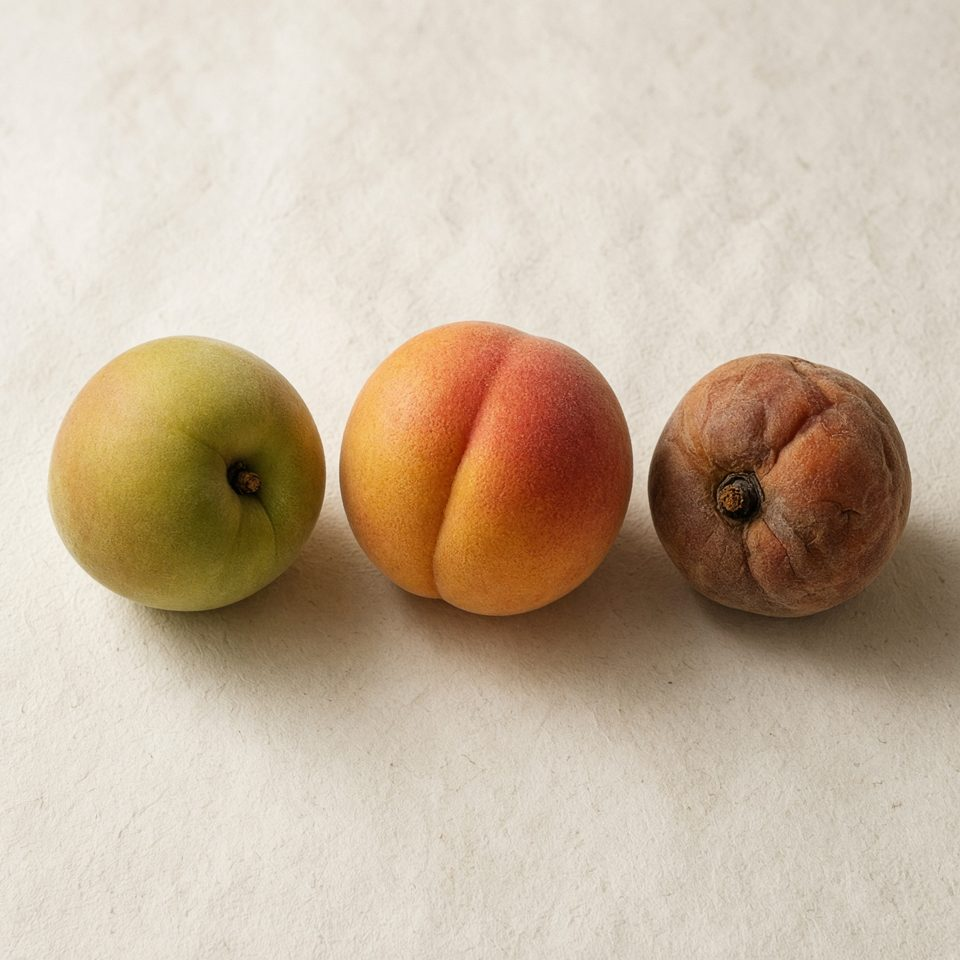
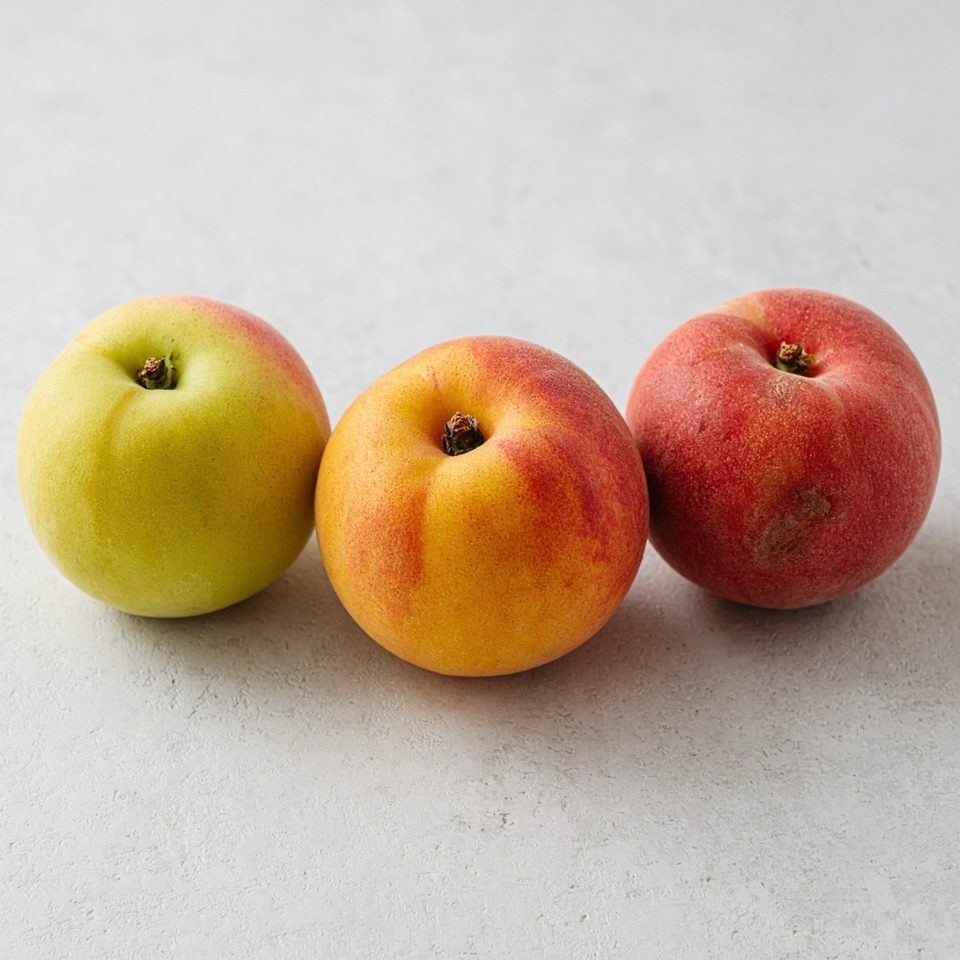
Fotos reales de cada alimento, sin estados extremos.

diff --git a/src/lib/catalog.ts b/src/lib/catalog.ts
@@ -215,6 +215,7 @@ export const GUIDES: Guide[] = [
     longer: ["Sepárala de lechuga y hierbas: suelta mucho etileno."],
     avoid: ["No la dejes al sol ni junto a la cebolla."],
     ethylene: "emite",
+    photo: "/guia/manzana.jpg",
     stages: false,
   },
   {
@@ -234,6 +235,7 @@ export const GUIDES: Guide[] = [
     longer: ["Una bolsa perforada en el cajón alarga la semana."],
     avoid: ["No los encierres húmedos."],
     ethylene: "neutro",
+    photo: "/guia/citricos.jpg",
     stages: false,
   },
   {
@@ -253,6 +255,7 @@ export const GUIDES: Guide[] = [
     longer: ["No las laves hasta servirlas."],
     avoid: ["No las dejes en el frutero de la mesa varios días."],
     ethylene: "sensible",
+    photo: "/guia/uva.jpg",
     stages: false,
   },
   {
@@ -272,6 +275,7 @@ export const GUIDES: Guide[] = [
     longer: ["Cubre el corte con papel o tapa, no dejes la cara abierta."],
     avoid: ["Una sandía partida en la mesa pasa la regla de las 2 horas y se tira."],
     ethylene: "neutro",
+    photo: "/guia/sandia.jpg",
     stages: false,
   },
   {
@@ -291,6 +295,7 @@ export const GUIDES: Guide[] = [
     longer: ["Guárdala de lado o parada, sin bolsa cerrada."],
     avoid: ["No esperes a que se ponga más amarilla para que endulce: eso no pasa en casa."],
     ethylene: "neutro",
+    photo: "/guia/pina.jpg",
     stages: false,
   },
   {
@@ -310,6 +315,7 @@ export const GUIDES: Guide[] = [
     longer: ["El corte siempre tapado, nunca en la mesa de la comida larga."],
     avoid: ["La superficie de un melón se lava antes de cortar: la cáscara trae tierra."],
     ethylene: "emite",
+    photo: "/guia/melon.jpg",
     stages: false,
   },
   {
@@ -329,6 +335,7 @@ export const GUIDES: Guide[] = [
     longer: ["Al primer aroma dulce fuerte, al refrigerador."],
     avoid: ["No la guardes junto a plátanos si aún está verde y no quieres apurarla."],
     ethylene: "emite",
+    photo: "/guia/papaya.jpg",
     stages: false,
   },
   {
@@ -348,6 +355,7 @@ export const GUIDES: Guide[] = [
     longer: ["Revisa el cuello, no el centro: por dentro se pasa antes de que se vea."],
     avoid: ["No la refrigeres mientras el cuello esté de piedra."],
     ethylene: "emite",
+    photo: "/guia/pera.jpg",
     stages: false,
   },
   {
@@ -367,6 +375,7 @@ export const GUIDES: Guide[] = [
     longer: ["Una sola capa. El etileno de una pasada acelera al resto."],
     avoid: ["No la encierres con manzanas si aún está verde, salvo que quieras apurarla."],
     ethylene: "emite",
+    photo: "/guia/guayaba.jpg",
     stages: false,
   },
   {
@@ -386,6 +395,7 @@ export const GUIDES: Guide[] = [
     longer: ["Una bolsa de papel con manzana lo apura. El refrigerador lo frena."],
     avoid: ["No lo cortes antes de que ceda: no madura en el plato."],
     ethylene: "sensible",
+    photo: "/guia/kiwi.jpg",
     stages: false,
   },
   {
@@ -405,6 +415,7 @@ export const GUIDES: Guide[] = [
     longer: ["Recipiente bajo, no una bolsa honda donde se aplasten."],
     avoid: ["No las laves al guardarlas."],
     ethylene: "neutro",
+    photo: "/guia/arandano.jpg",
     stages: false,
   },
   {
@@ -424,6 +435,7 @@ export const GUIDES: Guide[] = [
     longer: ["Limón en manzana, pera y aguacate frena el oscurecimiento, no la bacteria."],
     avoid: ["No la dejes en la mesa de una reunión larga."],
     ethylene: "neutro",
+    photo: "/guia/fruta-partida.jpg",
     stages: false,
   },
   {
@@ -443,6 +455,7 @@ export const GUIDES: Guide[] = [
     longer: ["No la laves hasta usarla, o sécala muy bien."],
     avoid: ["El etileno de manzana, plátano y jitomate la oxida antes."],
     ethylene: "sensible",
+    photo: "/guia/lechuga.jpg",
     stages: false,
   },
   {
@@ -462,6 +475,7 @@ export const GUIDES: Guide[] = [
     longer: ["Papel absorbente dentro de un recipiente, no bolsa sellada mojada."],
     avoid: ["No la dejes junto a frutas que maduran."],
     ethylene: "sensible",
+    photo: "/guia/espinaca.jpg",
     stages: false,
   },
   {
@@ -484,6 +498,7 @@ export const GUIDES: Guide[] = [
     ],
     avoid: ["No metas la albahaca al refrigerador si puedes tenerla en la mesa."],
     ethylene: "sensible",
+    photo: "/guia/cilantro.jpg",
     stages: false,
   },
   {
@@ -503,6 +518,7 @@ export const GUIDES: Guide[] = [
     longer: ["Una media o canasta, no una bolsa de plástico."],
     avoid: ["Junto a las papas: la cebolla las hace brotar y ellas humedecen la cebolla."],
     ethylene: "neutro",
+    photo: "/guia/cebolla.jpg",
     stages: false,
   },
   {
@@ -522,6 +538,7 @@ export const GUIDES: Guide[] = [
     longer: ["No quites la piel de papel hasta usarlo."],
     avoid: ["No lo guardes en el refrigerador 'por si acaso'."],
     ethylene: "neutro",
+    photo: "/guia/ajo.jpg",
     stages: false,
   },
   {
@@ -541,6 +558,7 @@ export const GUIDES: Guide[] = [
     longer: ["Una caja de cartón, no bolsa hermética ni bajo el fregadero húmedo."],
     avoid: ["Nunca refrigeres papa cruda para 'que dure'."],
     ethylene: "neutro",
+    photo: "/guia/papa.jpg",
     stages: false,
   },
   {
@@ -560,6 +578,7 @@ export const GUIDES: Guide[] = [
     longer: ["No lo laves hasta cocinarlo."],
     avoid: ["No lo metas al cajón de las verduras crudo."],
     ethylene: "neutro",
+    photo: "/guia/camote.jpg",
     stages: false,
   },
   {
@@ -579,6 +598,7 @@ export const GUIDES: Guide[] = [
     longer: ["Corta las hojas en cuanto llegues: le roban agua a la raíz."],
     avoid: ["No las dejes en la bolsa del súper sudada."],
     ethylene: "sensible",
+    photo: "/guia/zanahoria.jpg",
     stages: false,
   },
   {
@@ -598,6 +618,7 @@ export const GUIDES: Guide[] = [
     longer: ["Hacia el frente del refrigerador, no en la parte más helada, si se pican."],
     avoid: ["El etileno lo amarillea."],
     ethylene: "sensible",
+    photo: "/guia/pepino.jpg",
     stages: false,
   },
   {
@@ -617,6 +638,7 @@ export const GUIDES: Guide[] = [
     longer: ["Seco, en el cajón, sin lavar."],
     avoid: ["No lo guardes mojado."],
     ethylene: "sensible",
+    photo: "/guia/pimiento.jpg",
     stages: false,
   },
   {
@@ -636,6 +658,7 @@ export const GUIDES: Guide[] = [
     longer: ["Una bolsa de papel o recipiente aireado."],
     avoid: ["No los laves en racimo para guardarlos."],
     ethylene: "sensible",
+    photo: "/guia/chile.jpg",
     stages: false,
   },
   {
@@ -655,6 +678,7 @@ export const GUIDES: Guide[] = [
     longer: ["Un vaso con agua en el tallo, como ramo, dentro del refrigerador."],
     avoid: ["Manzanas al lado lo amarillean."],
     ethylene: "sensible",
+    photo: "/guia/brocoli.jpg",
     stages: false,
   },
   {
@@ -674,6 +698,7 @@ export const GUIDES: Guide[] = [
     longer: ["Papel, no la charola envuelta en película si ya sudó."],
     avoid: ["No los laves para guardarlos. Límpialos con un paño al usarlos."],
     ethylene: "neutro",
+    photo: "/guia/champinon.jpg",
     stages: false,
   },
   {
@@ -693,6 +718,7 @@ export const GUIDES: Guide[] = [
     longer: ["Cómpralo y cocínalo el mismo día o al siguiente."],
     avoid: ["No lo dejes en la bolsa del mercado a temperatura ambiente."],
     ethylene: "neutro",
+    photo: "/guia/elote.jpg",
     stages: false,
   },
   {
@@ -712,6 +738,7 @@ export const GUIDES: Guide[] = [
     longer: ["No la laves hasta cocinarla."],
     avoid: ["No la congeles en ruedas crudas si la quieres salteada: suelta agua."],
     ethylene: "sensible",
+    photo: "/guia/calabacita.jpg",
     stages: false,
   },
   {
@@ -731,6 +758,7 @@ export const GUIDES: Guide[] = [
     longer: ["El congelador es el truco que de verdad alarga."],
     avoid: ["No lo dejes en la ventana húmeda."],
     ethylene: "neutro",
+    photo: "/guia/jengibre.jpg",
     stages: false,
   },
   {
@@ -750,6 +778,7 @@ export const GUIDES: Guide[] = [
     longer: ["Reparte en recipientes bajos para que enfríe antes de tapar."],
     avoid: ["No dejes la olla en la estufa toda la noche."],
     ethylene: "neutro",
+    photo: "/guia/verdura-cocida.jpg",
     stages: false,
   },
   {
@@ -813,6 +842,7 @@ export const GUIDES: Guide[] = [
     longer: ["El suero se mezcla. No es señal de descomposición."],
     avoid: ["No comas del vaso y lo regreses al refrigerador días después."],
     ethylene: "neutro",
+    photo: "/guia/yogur.jpg",
     stages: false,
   },
   {
@@ -832,6 +862,7 @@ export const GUIDES: Guide[] = [
     longer: ["Escurre el suero y cámbialo de recipiente si vino nadando."],
     avoid: ["No lo dejes en el mostrador para que 'se temple' más de un rato."],
     ethylene: "neutro",
+    photo: "/guia/queso-fresco.jpg",
     stages: false,
   },
   {
@@ -851,6 +882,7 @@ export const GUIDES: Guide[] = [
     longer: ["Papel encerado y luego una bolsa, no película pegada para siempre."],
     avoid: ["No uses el mismo cuchillo del moho en el resto."],
     ethylene: "neutro",
+    photo: "/guia/queso-maduro.jpg",
     stages: false,
   },
   {
@@ -870,6 +902,7 @@ export const GUIDES: Guide[] = [
     longer: ["Un recipiente opaco. La luz y el ajo del refrigerador la perfuman."],
     avoid: ["No la dejes al sol de la ventana."],
     ethylene: "neutro",
+    photo: "/guia/mantequilla.jpg",
     stages: false,
   },
   {
@@ -892,6 +925,7 @@ export const GUIDES: Guide[] = [
     ],
     avoid: ["Un huevo refrigerado que pasó horas fuera ya no se guarda 'para después'."],
     ethylene: "neutro",
+    photo: "/guia/huevo.jpg",
     stages: false,
   },
 ];

diff --git a/src/routes/guia/$slug.tsx b/src/routes/guia/$slug.tsx
@@ -42,7 +42,7 @@ function Detail() {
       {item.photo ? (
         <img
           src={item.photo}
-          alt={item.stages ? `${item.name}: verde, listo y pasado` : item.name}
+          alt={item.stages ? `${item.name}: firme, listo y para comer pronto` : item.name}
           className="mt-2 aspect-square w-full object-cover"
         />
       ) : null}
@@ -78,7 +78,7 @@ function Detail() {
         <section>
           <h2 className="font-display text-3xl">Cómo se ve</h2>
           {item.stages ? (
-            <p className="mt-2 text-sm text-stone">En la foto, de izquierda a derecha: aún verde, listo, pasado.</p>
+            <p className="mt-2 text-sm text-stone">En la foto, de izquierda a derecha: todavía firme, listo, y ya conviene comerlo pronto.</p>
           ) : null}
           <ol className="mt-4 space-y-3">
             <Stage n="1" title="Todavía no" text={item.unripe} />
